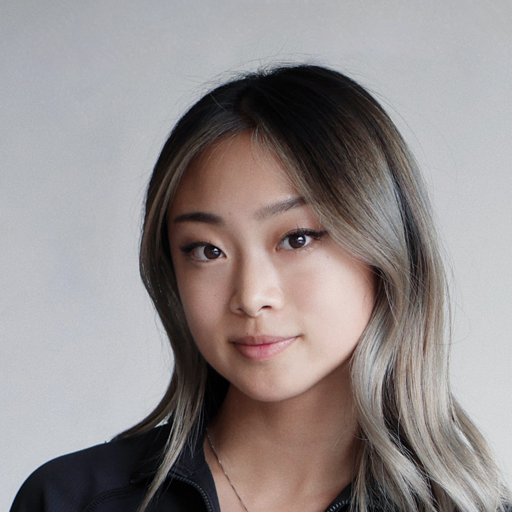
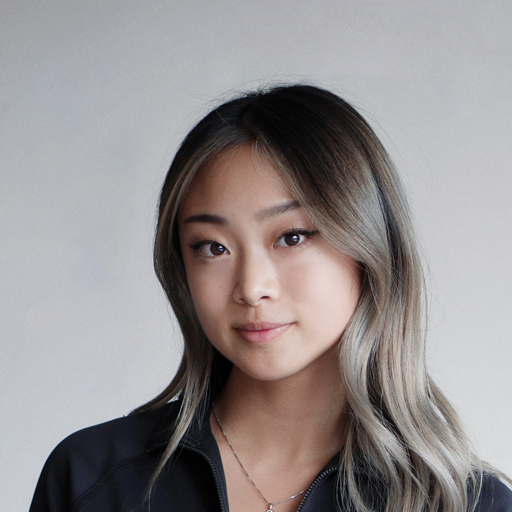
Jams launch: status rings, Sara's crop, the cut moves to #marketing, no top bar or rail
Online dots wear the product's ring of page ground; Sara's avatar is
cropped looser to the reference's head-to-circle proportion; the cut runs
in #marketing (agents cannot join a DM) so the Jam and its thread are
where the agent already is; and the top bar and rail are gone, leaving the
sidebar, the room and the panel as the whole frame.

Changed region(s): [[0.0, 0.0938, 1.0, 1.0]]

diff --git a/app/ando-stage/page.tsx b/app/ando-stage/page.tsx
@@ -18,7 +18,7 @@ import { useCallback, useEffect, useMemo, useRef, useState } from "react";
 import { Studio, type Hooks } from "../../lib/timeline-studio/studio";
 import { lanesFor } from "./lanes";
 import "./stage.css";
-import { Avatar, Composer, ConversationHeader, Rail, Sidebar, Topbar } from "./chrome";
+import { Avatar, Composer, ConversationHeader, Sidebar } from "./chrome";
 import { Icon } from "./glyph";
 import { ScriptControl, type ScriptLine } from "./script";
 import { TraceLine, type TracePhases } from "./context-trace";
@@ -870,9 +870,8 @@ function Stage({ scene, hooks, timing, onCycleScene }: { scene: Scene; hooks: Ho
     <div className="relative h-dvh w-screen overflow-hidden bg-ando-bg-nav text-ando-fg-primary">
       {/* The camera: the whole room on one transform (cards.tsx). */}
       <div ref={cameraRef} className="absolute inset-x-0 top-0 flex flex-col will-change-transform" style={{ bottom: hooks && !chromeHidden ? STUDIO_CLEARANCE : 0, transformOrigin: "0 0" }}>
-      <Topbar />
+      {/* No top bar and no rail: the sidebar, the room and the panel are the whole frame. */}
       <div ref={rowRef} className="relative flex min-h-0 flex-1">
-        <Rail me={scene.cast[ME]} />
         <Sidebar scene={scene} />
         {/* layout.tsx: main content card, 1px hairline from the panel */}
         <main data-stage-main className="relative flex min-w-0 flex-1 flex-col overflow-clip bg-ando-bg-main" style={{ boxShadow: "-1px 0 0 var(--color-ando-border-default)" }}>

diff --git a/app/ando-stage/chrome.tsx b/app/ando-stage/chrome.tsx
@@ -21,8 +21,11 @@ export function Avatar({ actor, size = 32, online, className }: { actor: Actor; 
         <span
           className="ando-avatar__status absolute rounded-full"
           style={{
-            // member-avatar.tsx: online is green-500, offline is border-strong.
+            // member-avatar.tsx: online is green-500, offline is border-strong,
+            // and the dot sits in a ring of the page ground so it reads as
+            // its own shape against the photo.
             background: online ? "var(--color-ando-green-500)" : "var(--color-ando-border-strong)",
+            boxShadow: `0 0 0 ${size >= 32 ? 2 : 1.5}px var(--color-ando-bg-main)`,
             ["--ando-avatar-status-size" as string]: `${Math.round(5 * Math.pow(size / 16, Math.log(8 / 5) / Math.log(2)))}px`,
           }}
         />

diff --git a/app/ando-stage/scenes.ts b/app/ando-stage/scenes.ts
@@ -343,8 +343,8 @@ const CHAT_THEN_JAM: Scene = {
 const JAMS_CUT: Scene = {
   id: "jams-cut",
   name: "Jams launch — the cut",
-  blurb: "Join, transcript, agent recap, tickets, logo. Thirty seconds.",
-  surface: { kind: "dm", who: "sara" },
+  blurb: "Join, transcript, agent recap, tickets, logo. In #marketing, where the agent already is.",
+  surface: { kind: "channel", name: "marketing", members: 9 },
   cast: CAST,
   beats: [
     // Every line earns its keystrokes: yours type into the composer over
